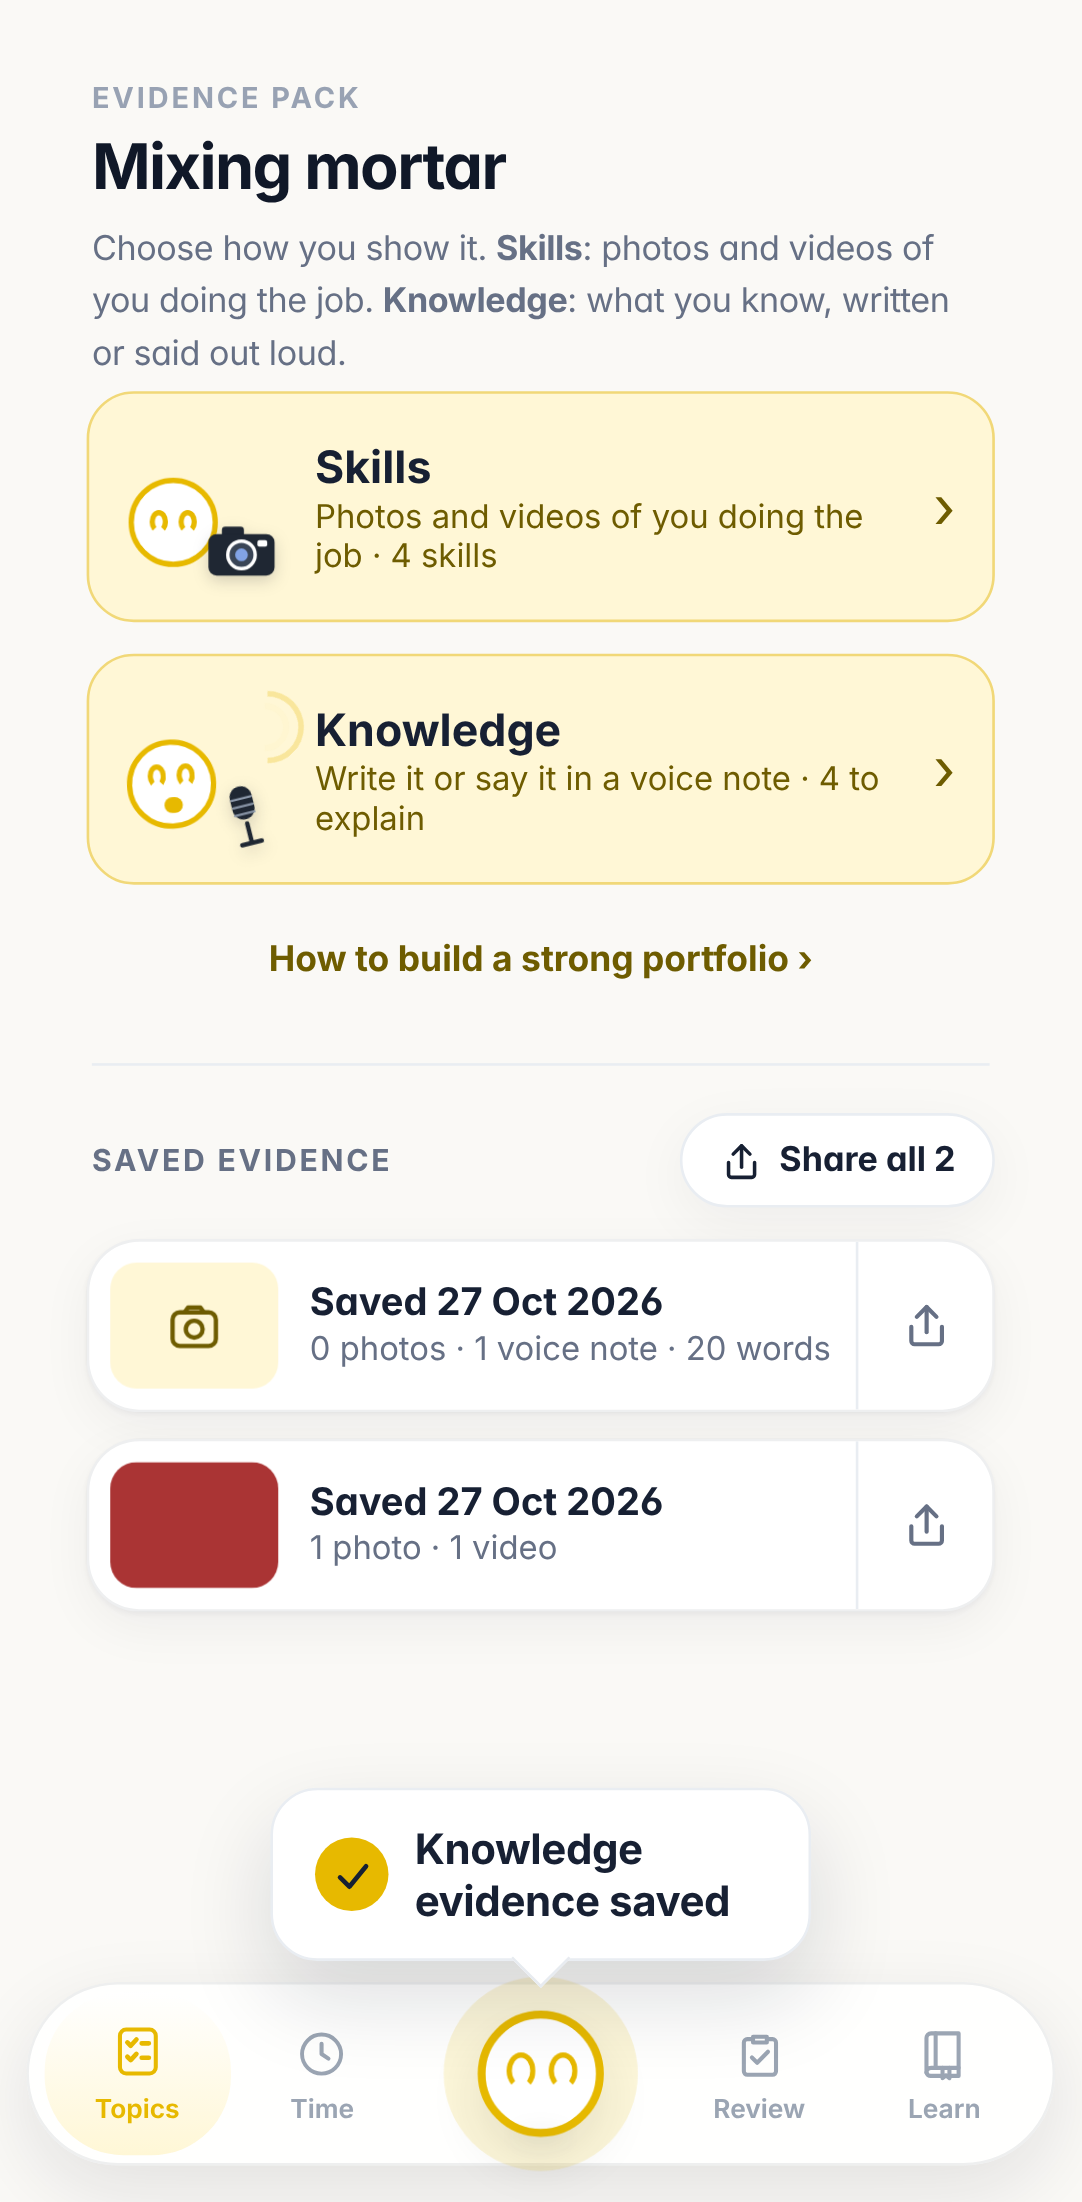
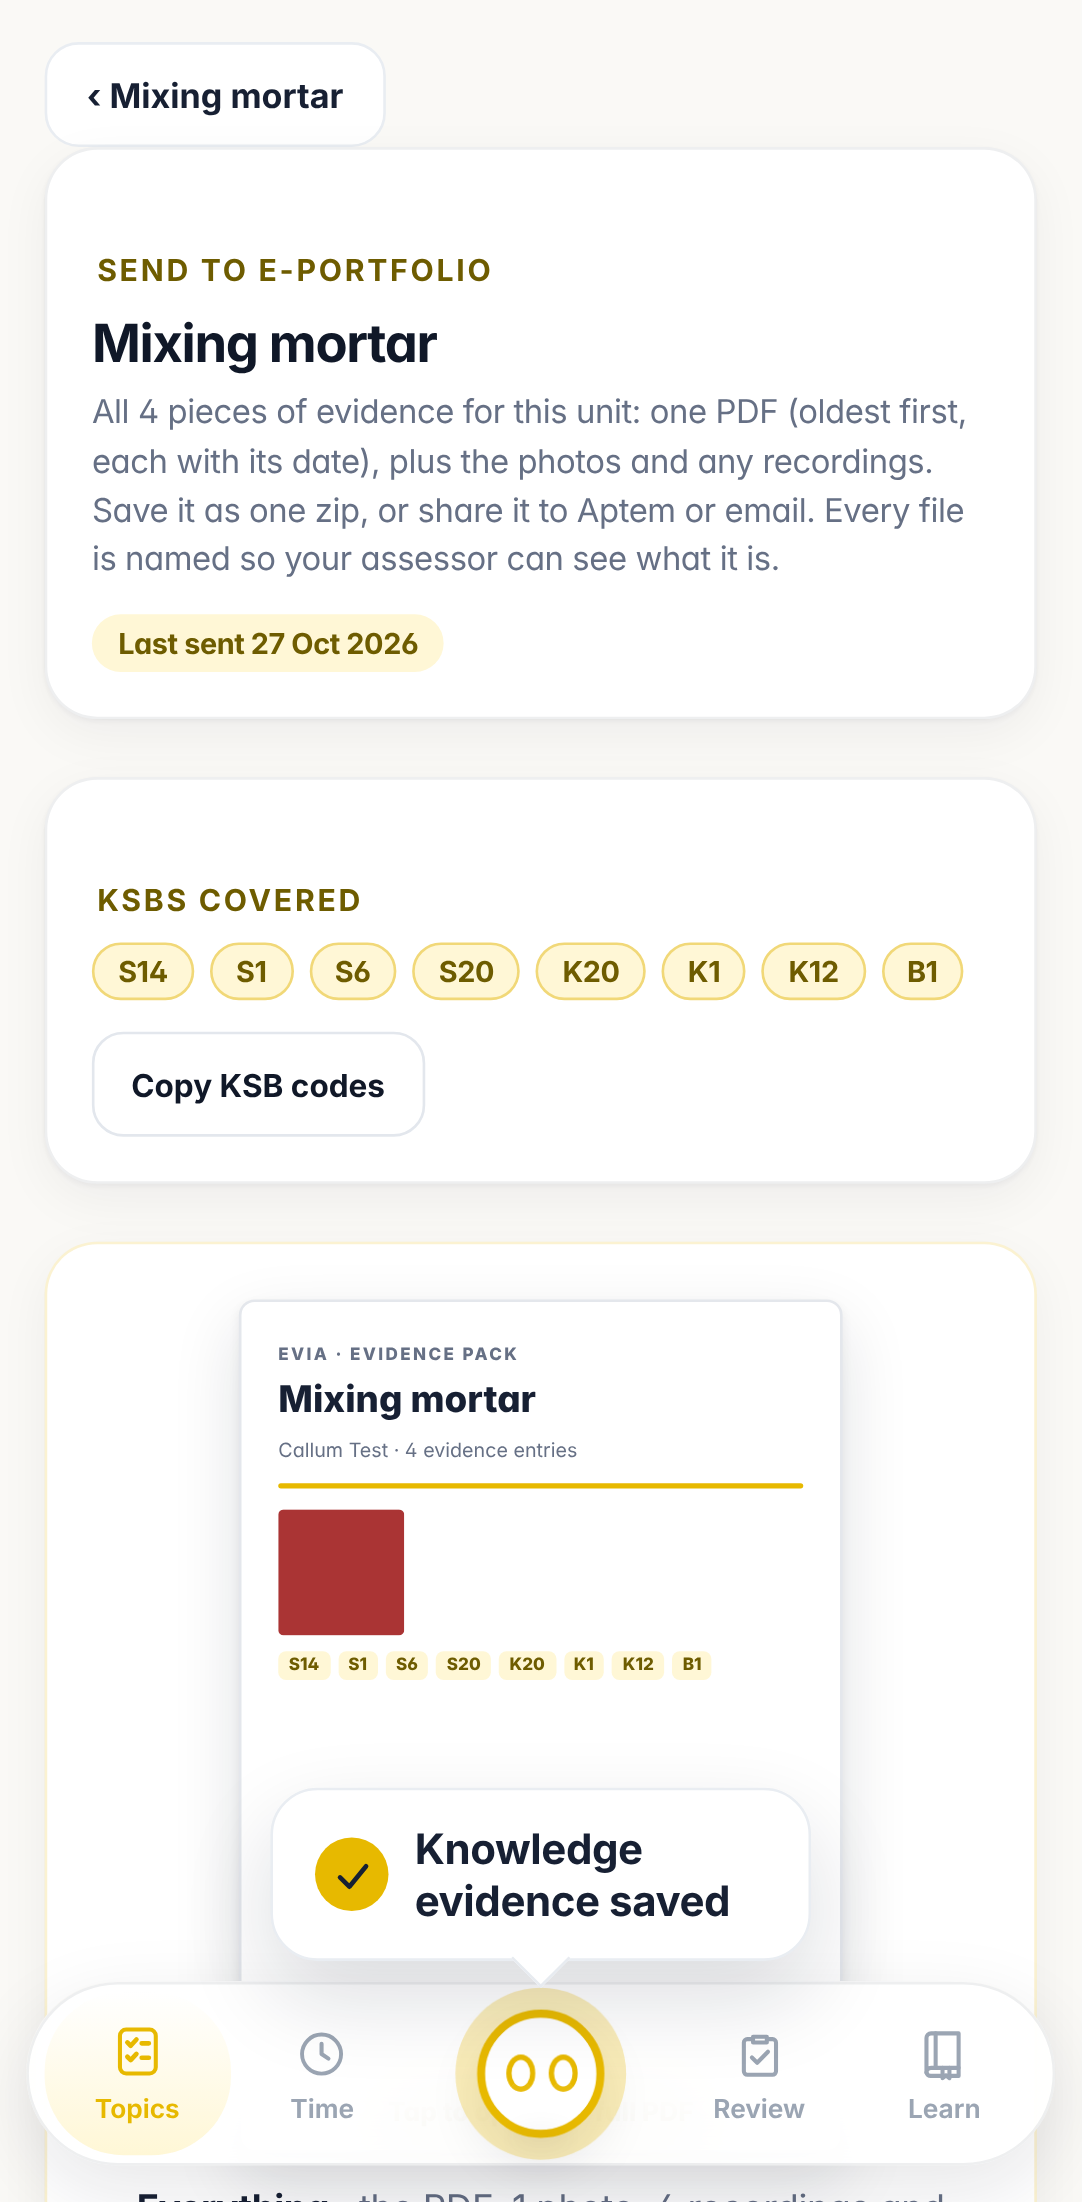
Evia tester: Share all works with voice notes
Chrome on Android refuses a whole share if any file's type is outside its list.
Voice notes went out as audio/mp4; they are now audio/x-m4a (and every
recording's type is plain, with no codecs). tests/capture.js checks each file
Share all sends against Chrome's list.

Claude-Session: https://claude.ai/code/session_01QJxqWNu6f6XizyZCJdNw2C

diff --git a/apps/evia/index.html b/apps/evia/index.html
@@ -3,7 +3,7 @@
 <head>
 <meta charset="utf-8">
 <meta name="viewport" content="width=device-width,initial-scale=1,viewport-fit=cover">
-<meta name="evia-version" content="evia7-v305">
+<meta name="evia-version" content="evia7-v306">
 <meta name="theme-color" content="#fffdfa">
 <meta name="description" content="Evia apprenticeship tracking">
 <meta name="evia-build-policy" content="network-first-v1">
@@ -86,7 +86,7 @@ html.evia-booting body{visibility:hidden}
 <script src="install.js?v=install-v4"></script>
 <script src="blank-guard.js?v=blank-v1"></script>
 <script src="packs.js?v=packs-v5"></script>
-<script src="storage.js?v=storage-v8" data-app-scripts="data.js?v=data-v17 nisia-actions.js?v=actions-5 nisia.js?v=nisia-v26 checkin.js?v=checkin-v3 @course-pack-early ksb-official.js?v=ksb-v3 app.js polish.js theme.js?v=evia-theme-v12 accessibility.js?v=a11y-v1 onboarding.js?v=onboarding-v31 profile.js?v=profile-v15 eportfolio.js?v=eport-v23 test-banks.js?v=banks-v2 review.js?v=tests-v15 repair.js?v=repair-v4 provider.js?v=provider-v2 practice-tasks.js?v=tasks-v3 otj-auto.js?v=otj-v2 teach-kit.js?v=tk-v3 teach-pics.js?v=tp-v8 teach-play.js?v=tg-v3 teach-maths.js?v=tm-v2 teach-english.js?v=te-v2 teach-edi.js?v=edi-v2 @course-pack strength.js?v=strength-v4 guide.js?v=guide-v11 teach.js?v=teach-v17 exam.js?v=exam-v2 stats.js?v=stats-v17 practice.js?v=practice-v11 reviews.js?v=reviews-v17 ui.js?v=ui-v49 progress.js?v=pv-v19 epa-guide.js?v=guide-v2 discussion.js?v=disc-v6 evia-coach.js?v=coach-v30 evia-brain.js?v=brain-v9 evia-todo.js?v=todo-v10 camera.js?v=camera-v10 photo-tips.js?v=tips-v2 writing.js?v=writing-v4 evia-alive.js?v=alive-v3 tabs.js?v=tabs-v21 calendar.js?v=cal-v9 games.js?v=games-v8 showdown-data.js?v=sd-v4 showdown.js?v=sd-v3 leaderboard.js?v=lb-v4 rewards.js?v=rw-v23 orbs.js?v=orbs-v2 tips.js?v=tips-v3 usage.js?v=usage-v2 class-quiz.js?v=cq-v2 mic-hint.js?v=mh-v2 battle.js?v=bt-v4 messages-ui.js?v=msg-v1 evia-messages.js?v=em-v1 future.js?v=fu-v2 review-prep.js?v=rp-v3 goodbye.js?v=gb-v1 ui-tidy.js?v=tidy-v12 helper.js?v=hp-v8 journey-pack.js?v=jp-v4 own-attendance.js?v=oa-v6 feedback.js?v=fb-v1 desktop.js?v=dk-v1"></script>
+<script src="storage.js?v=storage-v8" data-app-scripts="data.js?v=data-v17 nisia-actions.js?v=actions-5 nisia.js?v=nisia-v26 checkin.js?v=checkin-v3 @course-pack-early ksb-official.js?v=ksb-v3 app.js polish.js theme.js?v=evia-theme-v12 accessibility.js?v=a11y-v1 onboarding.js?v=onboarding-v31 profile.js?v=profile-v15 eportfolio.js?v=eport-v99 test-banks.js?v=banks-v2 review.js?v=tests-v15 repair.js?v=repair-v4 provider.js?v=provider-v2 practice-tasks.js?v=tasks-v3 otj-auto.js?v=otj-v2 teach-kit.js?v=tk-v3 teach-pics.js?v=tp-v8 teach-play.js?v=tg-v3 teach-maths.js?v=tm-v2 teach-english.js?v=te-v2 teach-edi.js?v=edi-v2 @course-pack strength.js?v=strength-v4 guide.js?v=guide-v11 teach.js?v=teach-v17 exam.js?v=exam-v2 stats.js?v=stats-v17 practice.js?v=practice-v11 reviews.js?v=reviews-v17 ui.js?v=ui-v49 progress.js?v=pv-v19 epa-guide.js?v=guide-v2 discussion.js?v=disc-v6 evia-coach.js?v=coach-v30 evia-brain.js?v=brain-v9 evia-todo.js?v=todo-v10 camera.js?v=camera-v10 photo-tips.js?v=tips-v2 writing.js?v=writing-v4 evia-alive.js?v=alive-v3 tabs.js?v=tabs-v21 calendar.js?v=cal-v9 games.js?v=games-v8 showdown-data.js?v=sd-v4 showdown.js?v=sd-v3 leaderboard.js?v=lb-v4 rewards.js?v=rw-v23 orbs.js?v=orbs-v2 tips.js?v=tips-v3 usage.js?v=usage-v2 class-quiz.js?v=cq-v2 mic-hint.js?v=mh-v2 battle.js?v=bt-v4 messages-ui.js?v=msg-v1 evia-messages.js?v=em-v1 future.js?v=fu-v2 review-prep.js?v=rp-v3 goodbye.js?v=gb-v1 ui-tidy.js?v=tidy-v12 helper.js?v=hp-v8 journey-pack.js?v=jp-v4 own-attendance.js?v=oa-v6 feedback.js?v=fb-v1 desktop.js?v=dk-v1"></script>
 <script>
 (function(){
   if (!("serviceWorker" in navigator)) return;
@@ -96,7 +96,7 @@ html.evia-booting body{visibility:hidden}
   navigator.serviceWorker.addEventListener("controllerchange",function(){if(reloading||!hadController||Date.now()-openedAt>8000)return;reloading=true;window.location.reload();});
   window.addEventListener("load", async function(){
     try {
-      const registration=await navigator.serviceWorker.register("./sw-v16.js?v=evia7-v305",{updateViaCache:"none"});
+      const registration=await navigator.serviceWorker.register("./sw-v16.js?v=evia7-v306",{updateViaCache:"none"});
       await registration.update().catch(()=>{}); /* fails harmlessly with no signal */
       const activateWaiting=worker=>{if(!worker)return;worker.postMessage({type:"SKIP_WAITING"});};
       if(registration.waiting) activateWaiting(registration.waiting);

diff --git a/apps/evia/tests/capture.js b/apps/evia/tests/capture.js
@@ -78,6 +78,22 @@ const check=(name,ok,detail)=>{results.push(!!ok);console.log((ok?"✓ ":"✗ ")
     /* The PDF says which it is. */
     const pdf=await page.evaluate(async()=>{const u=data().u[0][0];const blob=await window.eviaBuildUnitPdf(u,evidence.slice(),[[],[]]);const t=new Uint8Array(await blob.arrayBuffer());let s="";t.forEach(c=>s+=String.fromCharCode(c));return s.length});
     check("The unit PDF still builds with both",pdf>1000,String(pdf));
+    /* Share all: every file labelled with a type and name Chrome on Android shares (it refuses the whole share if one
+       isn't), including a voice note and a video as an Android phone makes them (MP4). */
+    const CHROME_TYPES=["application/pdf","audio/flac","audio/mp3","audio/mpeg","audio/ogg","audio/wav","audio/webm","audio/x-m4a","image/avif","image/bmp","image/gif","image/jpeg","image/png","image/svg+xml","image/tiff","image/webp","image/x-icon","image/x-ms-bmp","image/x-xbitmap","text/comma-separated-values","text/css","text/csv","text/html","text/plain","video/mp4","video/mpeg","video/ogg","video/webm"];
+    const CHROME_EXT=["avif","bmp","css","csv","flac","gif","htm","html","ico","jfif","jpeg","jpg","m4a","m4v","mp3","mp4","mpeg","mpg","oga","ogg","ogv","opus","pdf","pjp","pjpeg","png","svg","svgz","text","tif","tiff","txt","wav","weba","webm","webp","xbm"];
+    const shared=await page.evaluate(async()=>{
+      const put=async(type)=>{const id=await window.eviaStoreEvidencePhoto(new Blob([new Uint8Array(200)],{type}));return id};
+      const v=await put("video/mp4"),a=await put("audio/mp4");const u=data().u[0][0];
+      window.eviaData.put("evidence",{course,unit:u,kind:"skills",text:"",ksbs:["S14"],photoIds:[],media:[{id:v,kind:"video",mime:"video/mp4",secs:5}]});
+      window.eviaData.put("evidence",{course,unit:u,kind:"knowledge",text:"",ksbs:["K20"],photoIds:[],media:[{id:a,kind:"audio",mime:"audio/mp4",secs:5,transcript:"Gauging box"}]});
+      let got=null;navigator.canShare=()=>true;navigator.share=async d=>{got=d.files.map(f=>({name:f.name,type:f.type}))};
+      window.eviaOpenSendToPortfolio(u);
+      for(let i=0;i<80&&!document.getElementById("eport-share-all");i++)await new Promise(r=>setTimeout(r,250));
+      const b=document.getElementById("eport-share-all");if(!b)return null;b.click();await new Promise(r=>setTimeout(r,500));return got});
+    const bad=(shared||[]).filter(f=>!CHROME_TYPES.includes(f.type)||!CHROME_EXT.includes(f.name.split(".").pop().toLowerCase()));
+    check("Share all: every file (PDF, photos, videos, voice notes, what was said) has a type and name Chrome on Android will share",
+      shared&&shared.length>=5&&!bad.length&&shared.some(f=>f.type==="audio/x-m4a")&&shared.some(f=>f.type==="video/mp4"),JSON.stringify({bad,shared}));
     await page.screenshot({path:path.join(__dirname,"..","shots","capture-topic.png")}).catch(()=>{});
     check("No script errors",!errors.length,errors.join(" | "));
   }catch(e){check("The test ran to the end",false,e.stack+" | "+errors.join(" | "))}

diff --git a/apps/evia/eportfolio.js b/apps/evia/eportfolio.js
@@ -379,7 +379,10 @@
       try{
         const blob=window.eviaGetEvidencePhoto?await window.eviaGetEvidencePhoto(m.id):null;if(!blob)throw new Error("missing");
         r++;const mp4=/mp4|m4a|aac/i.test(m.mime||blob.type),ext=m.kind==="video"?(mp4?"mp4":"webm"):(mp4?"m4a":"webm");
-        files.push({kind:m.kind,title:(m.kind==="video"?"Video ":"Voice note ")+r,file:new File([blob],base+"_"+(m.kind==="video"?"video":"voice-note")+"-"+String(r).padStart(2,"0")+"."+ext,{type:blob.type||m.mime||"application/octet-stream"})});
+        /* Labelled with the types phones accept for sharing: Chrome on Android refuses the whole share if one file is
+           labelled outside its list (a voice note as "audio/mp4" rather than "audio/x-m4a", or with its codecs). */
+        const type=m.kind==="video"?(mp4?"video/mp4":"video/webm"):(mp4?"audio/x-m4a":"audio/webm");
+        files.push({kind:m.kind,title:(m.kind==="video"?"Video ":"Voice note ")+r,file:new File([blob],base+"_"+(m.kind==="video"?"video":"voice-note")+"-"+String(r).padStart(2,"0")+"."+ext,{type})});
       }catch(err){recMissing++}
     }
     const said=entries.flatMap(e=>(e.media||[]).map(m=>String(m.transcript||"").trim()).filter(Boolean));

diff --git a/apps/evia/sw-v16.js b/apps/evia/sw-v16.js
@@ -1,4 +1,4 @@
-const VERSION = "2026-10-27-evia7-v305";
+const VERSION = "2026-10-27-evia7-v306";
 const CACHE_NAME = "evia7-offline-" + VERSION;
 
 const APP_SHELL = [
